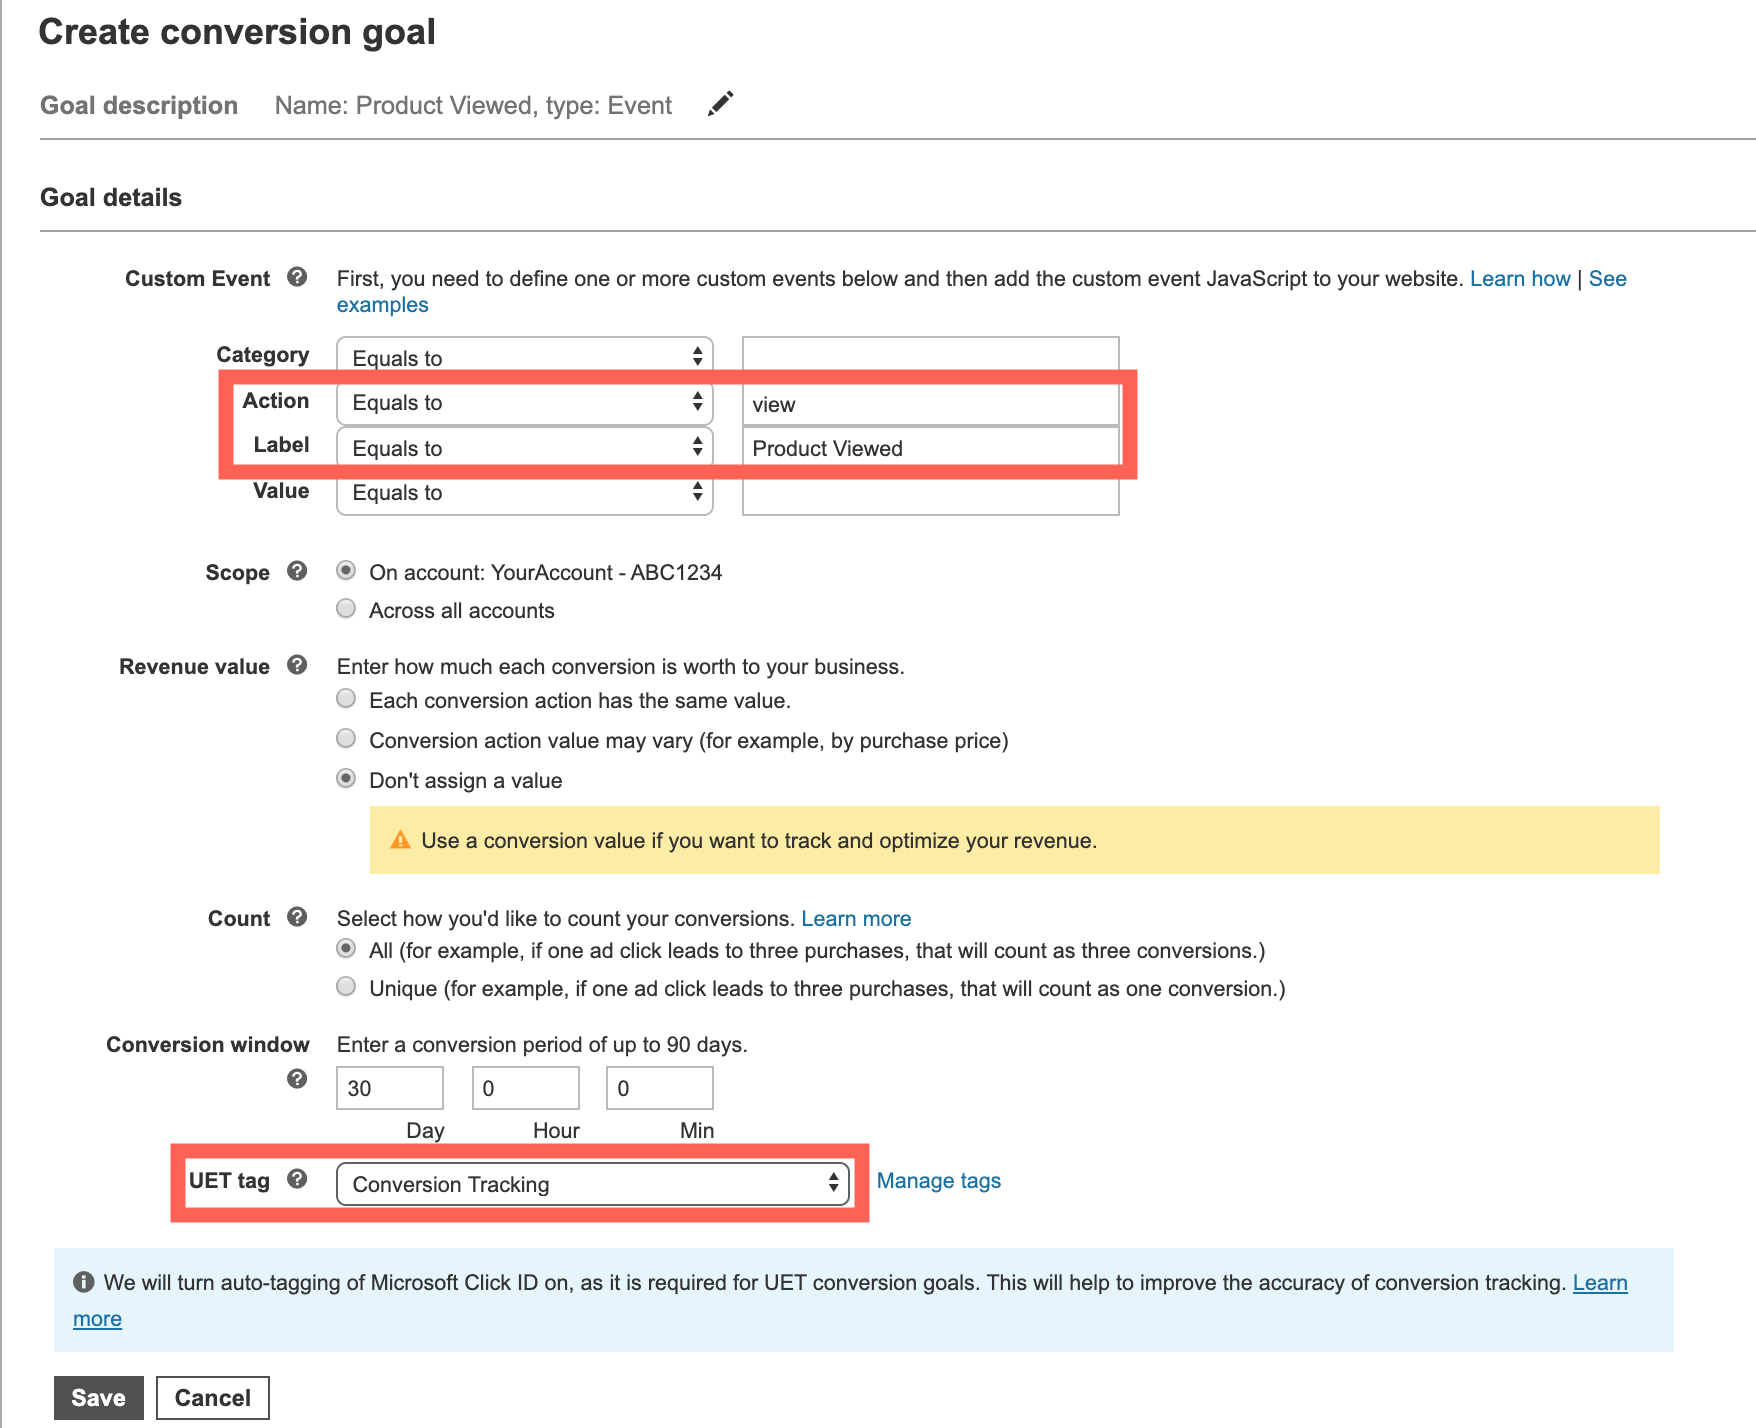
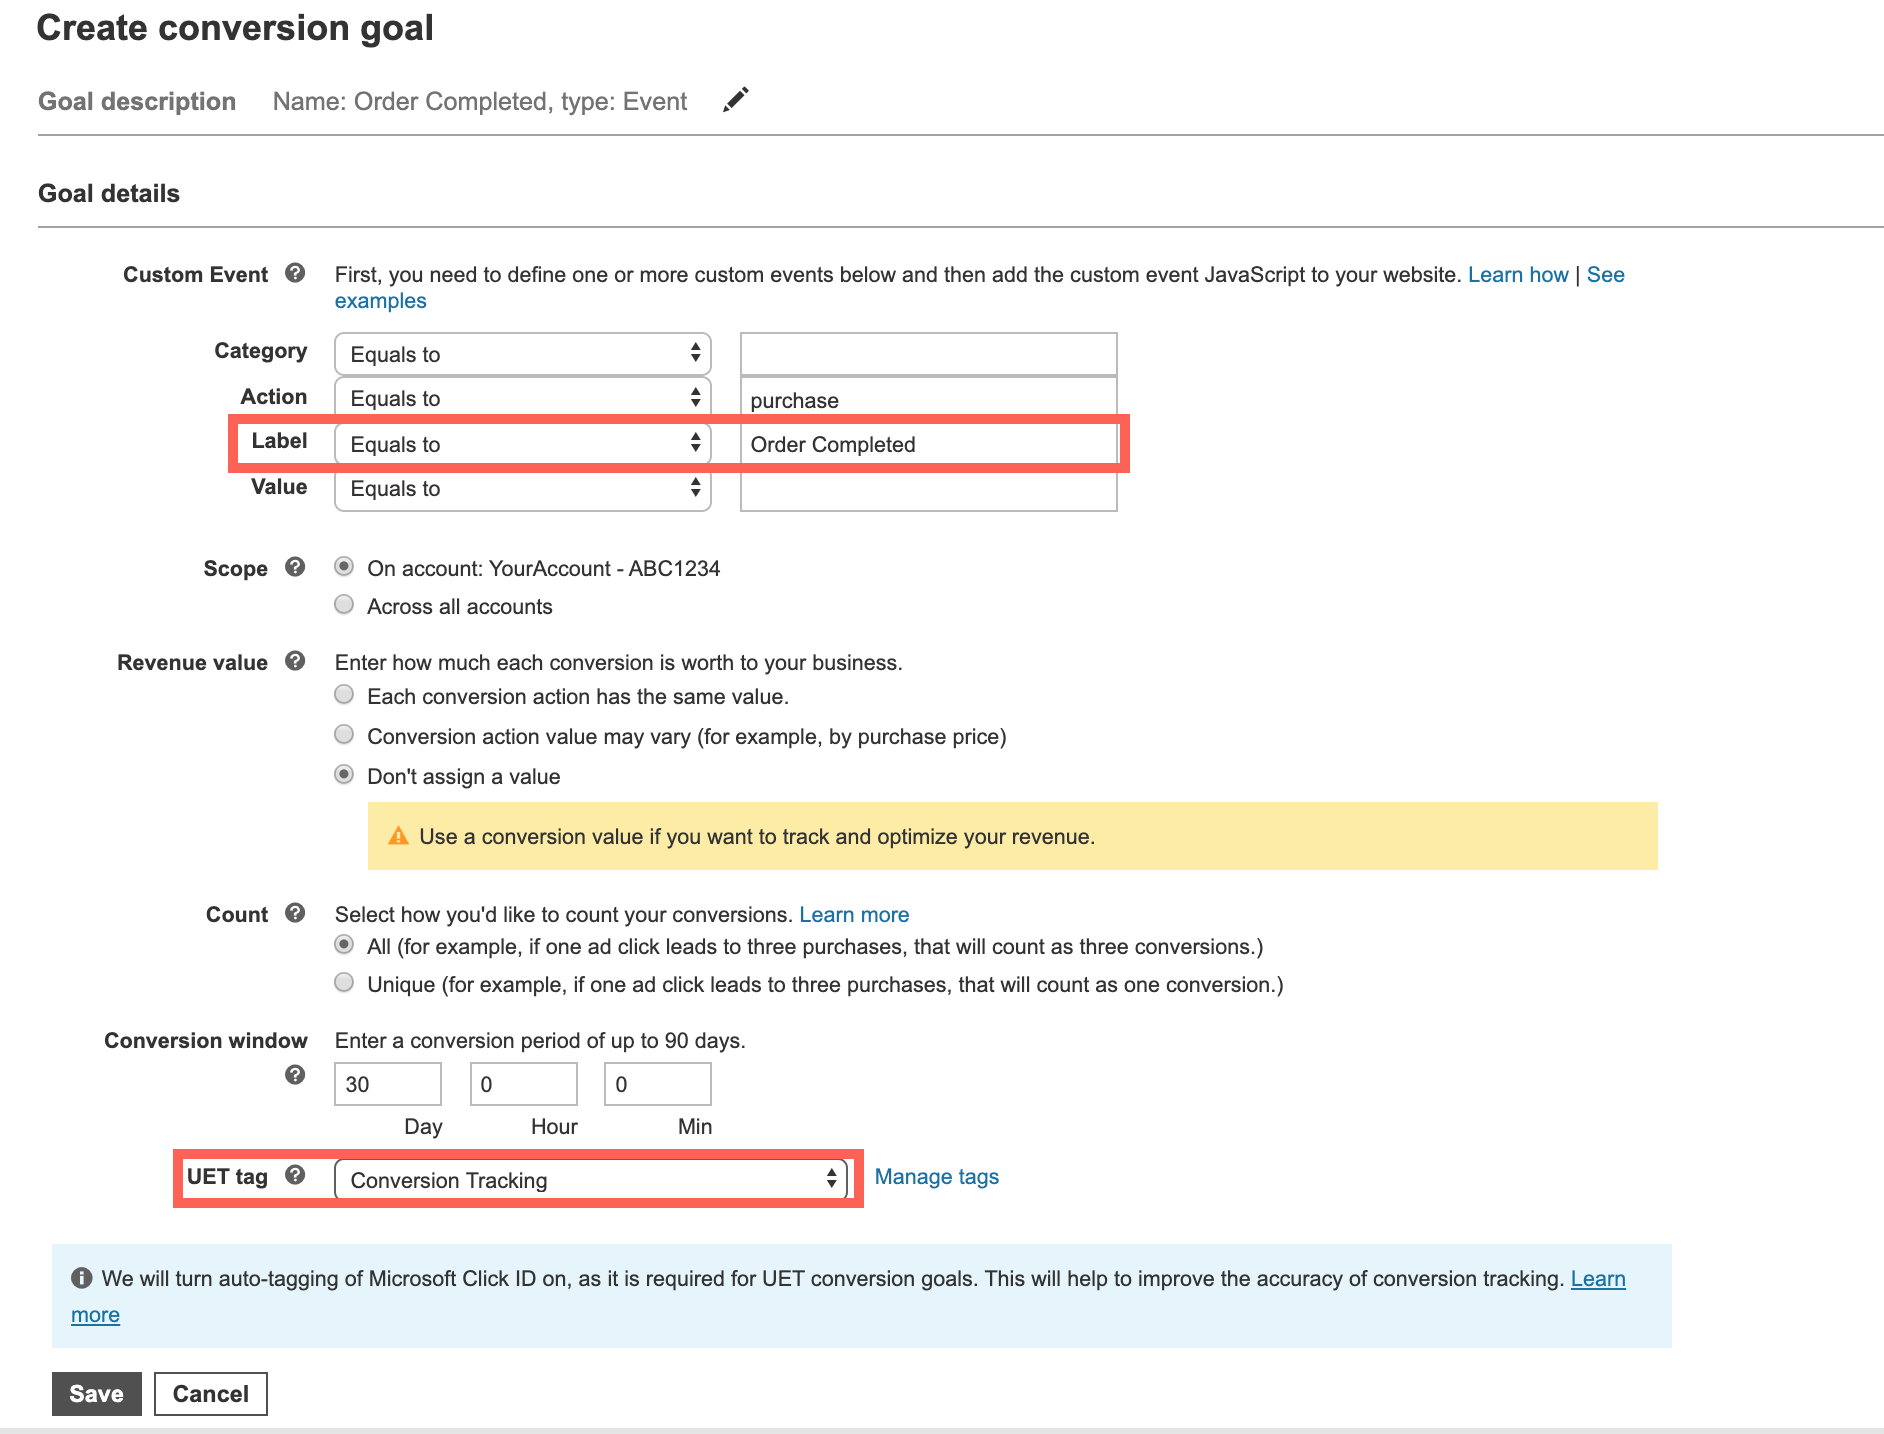
updated event and its images

Changed region(s): [[0.0, 0.1541, 1.0, 1.0], [0.0, 0.0616, 1.0, 0.1541], [0.0, 0.0, 0.246, 0.0308]]

diff --git a/v2/editions/enterprise/destinations/bing-ads.md b/v2/editions/enterprise/destinations/bing-ads.md
@@ -38,8 +38,8 @@ Here is an example of `integrations.yaml`:
   config:
     tagId: 'my UET tag id'
     customActionsMappings:
-      - name: 'Product Viewed'
-        action: 'view'
+      - name: 'Order Completed'
+        action: 'purchase'
       - name: 'Product Added'
         category: 'product'
         action: 'add'
@@ -47,7 +47,7 @@ Here is an example of `integrations.yaml`:
 
 In this configuration, `tagId` represents the ID that you've got from the previous step.
 
-`customActionsMappings` list allows you to define your own custom event actions based on events that you track with `analytics.track()`. Using the config file from the example, when calling `analytics.track('Product Viewed')` we'll send an event with `view` action to Microsoft Advertising. We use the following parameters:
+`customActionsMappings` list allows you to define your own custom event actions based on events that you track with `analytics.track()`. Using the config file from the example, when calling `analytics.track('Order Completed')` we'll send an event with `purchase` action to Microsoft Advertising. We use the following parameters:
 _ `name`: your `track()` event.
 _ `action`: the event send to Microsoft Advertising.
 
@@ -66,7 +66,7 @@ Under Conversion Tracking, click View Conversion Goals Page.
 On the conversion goals page, click Create conversion goal.
 ![microsoftCreateConversionGoal](../../../../images/microsoftCreateConversionGoal.png)
 
-Enter a name for your goal in the Goal name box. When naming your goal, use a descriptive name that makes sense to you. (For example, Product Viewed)
+Enter a name for your goal in the Goal name box. When naming your goal, use a descriptive name that makes sense to you. (For example, Order Completed)
 Choose the Event type of conversion and click Next.
 ![microsoftSelectConversionType](../../../../images/microsoftSelectConversionType.png)
 
@@ -79,14 +79,14 @@ You should be able to see your goal appeared in the goals list:
 
 ```
 // Metarouter event
-analytics.track('Product Viewed', {
-  action: 'view',
+analytics.track('Order Completed', {
+  action: 'purchase',
   revenue: 25,
   ... // additional properties
 });
 ```
 
-Label: Event Name ('Product Viewed' in this case)
+Label: Event Name ('Order Completed' in this case)
 Value: `revenue` property
 Category: `category` property
 
